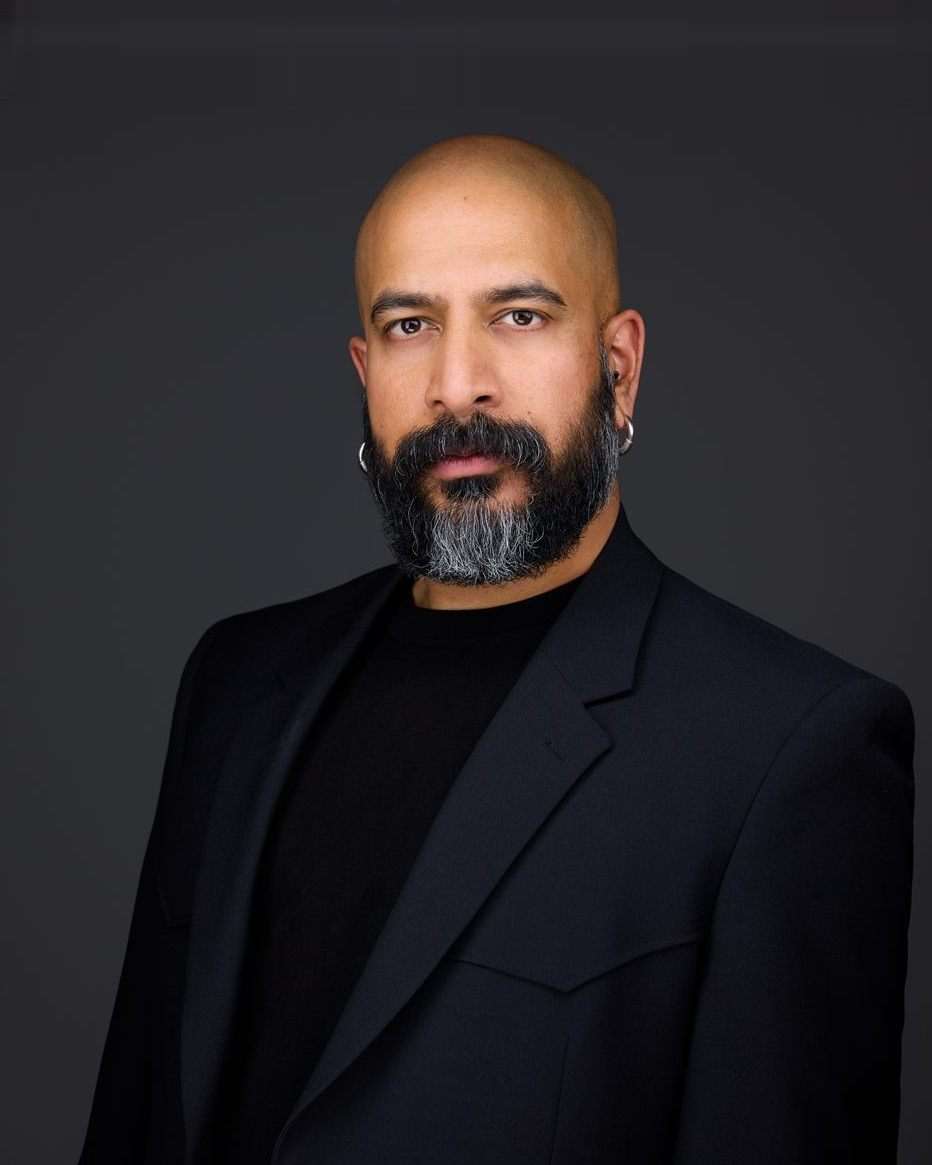
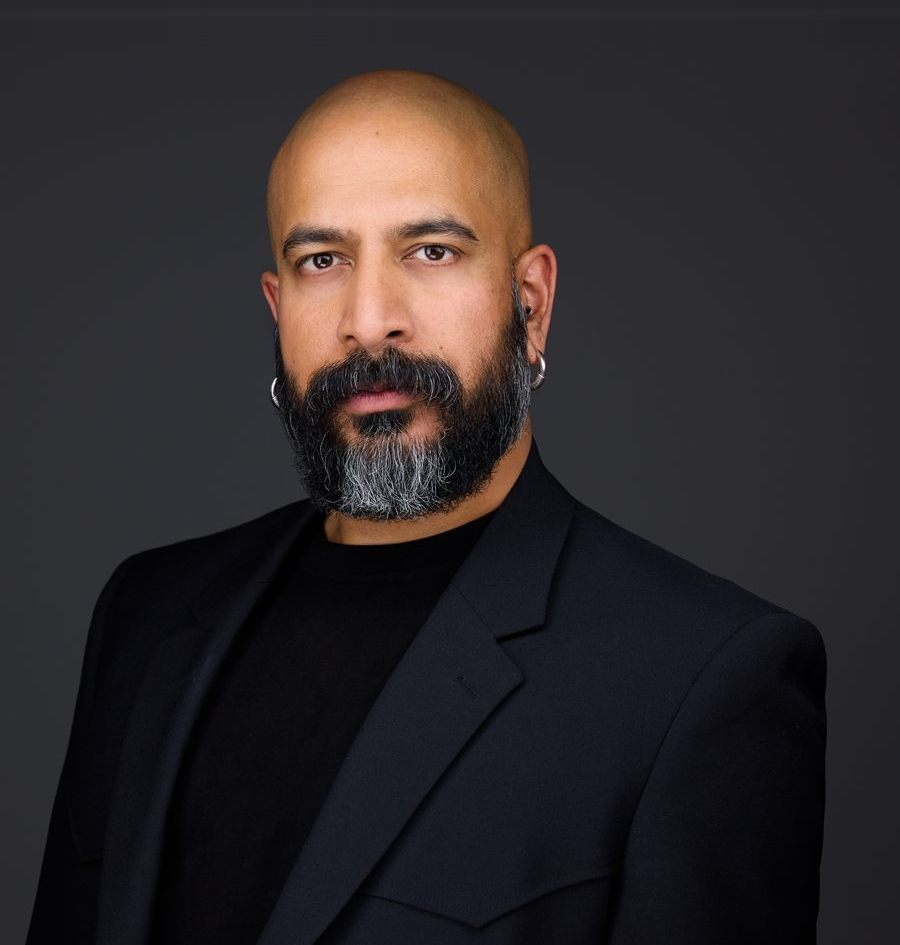
Widen Executive headshot frame and centre the subject
Claude-Session: https://claude.ai/code/session_01GYFvPCc2EBc9tBSnr2F78r

diff --git a/index.html b/index.html
@@ -570,22 +570,22 @@
     margin-bottom: 1.8rem;
   }
   /* Bio on the left taking the remaining width, photo on the right in a fixed
-     320px column, tops aligned.
+     380px column, tops aligned.
      The eyebrow and section heading sit above this grid at full width. */
   .advisor-grid {
     display: grid;
-    grid-template-columns: minmax(0, 1fr) 320px;
+    grid-template-columns: minmax(0, 1fr) 380px;
     gap: 56px;
     align-items: start;
   }
   .exec-photo {
     display: block;
     width: 100%;
-    max-width: 320px;
+    max-width: 380px;
     height: auto;
-    aspect-ratio: 4 / 4.2;
+    aspect-ratio: 1 / 1.05;
     object-fit: cover;
-    object-position: 64% 42%;
+    object-position: 50% 42%;
     justify-self: end;
   }
   .advisor-standfirst {
@@ -596,7 +596,7 @@
   }
   @media (max-width: 720px) {
     .advisor-grid { grid-template-columns: 1fr; gap: 32px; }
-    .exec-photo { max-width: 240px; margin-inline: auto; justify-self: center; }
+    .exec-photo { max-width: 260px; margin-inline: auto; justify-self: center; }
   }
   .advisor-bio p {
     color: var(--ink-soft);
@@ -1209,7 +1209,7 @@
             <p>Before that, as Senior Communications Advisor to the Government of Alberta, he served as spokesperson for a major regulatory body through workplace incidents, international missions, and legislative overhauls, advising senior executives and government stakeholders throughout.</p>
           </div>
         </div>
-        <img class="exec-photo" src="headshot-2026.jpg" alt="Gurshan Dhillon, fractional CMO and founder of Marketing by Committee, Edmonton, Alberta" width="932" height="1165" loading="lazy" decoding="async" />
+        <img class="exec-photo" src="headshot-2026.jpg" alt="Gurshan Dhillon, fractional CMO and founder of Marketing by Committee, Edmonton, Alberta" width="900" height="945" loading="lazy" decoding="async" />
       </div>
     </div>
   </section>
